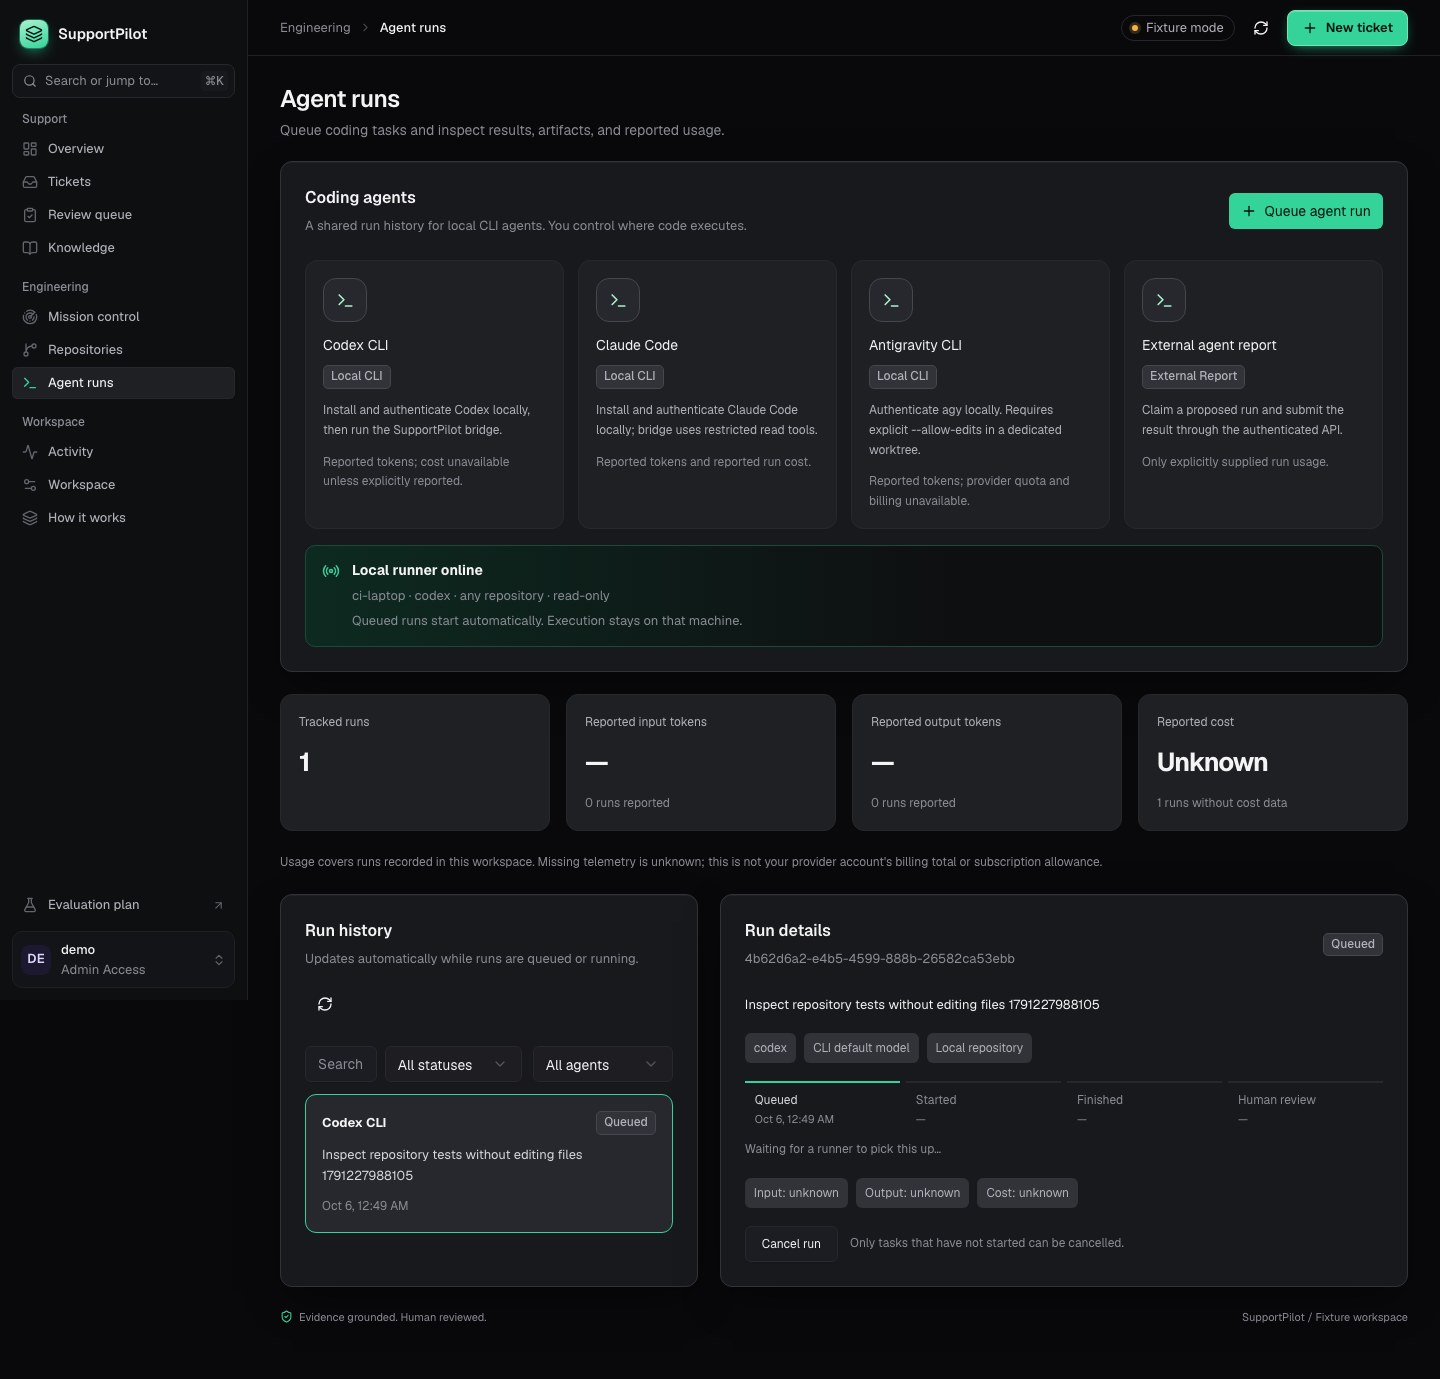
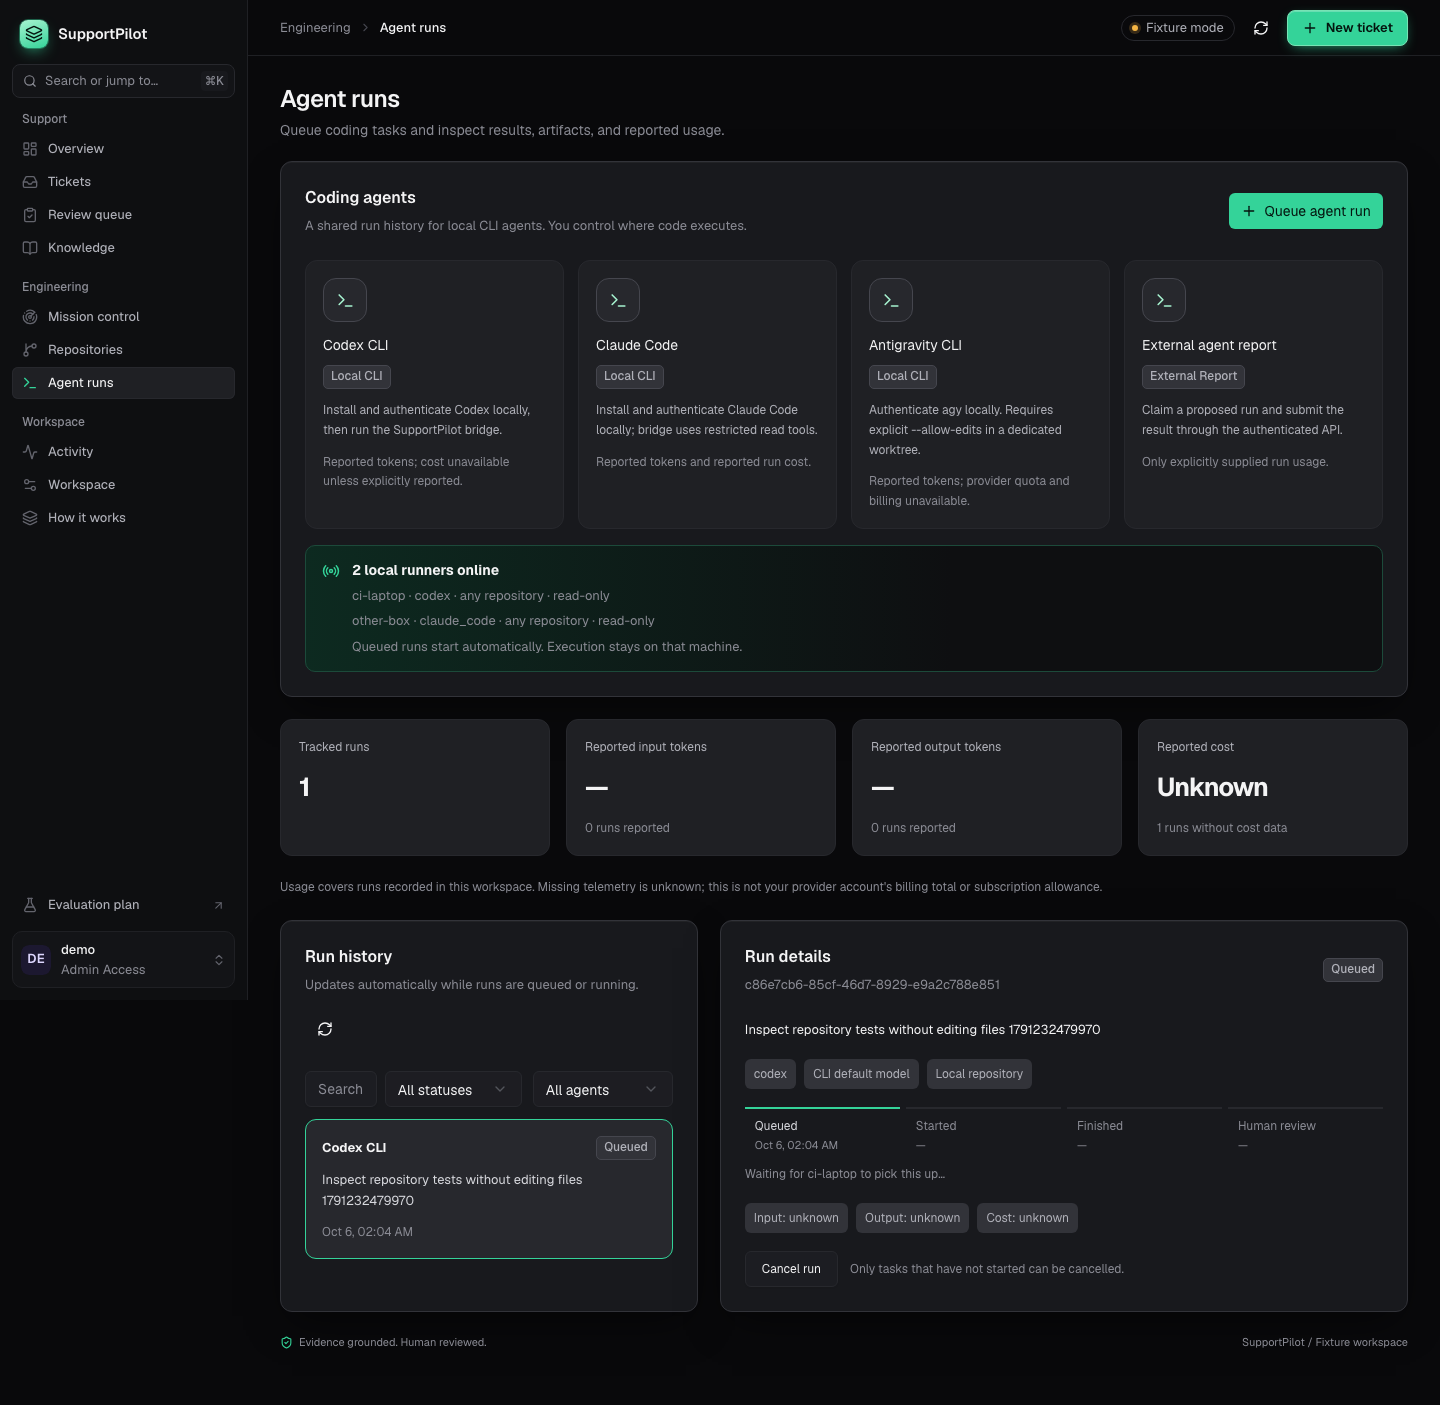
Explain why a queued run is not starting and give a per-repository runner setup with a hidden token prompt

diff --git a/frontend/src/features/AgentRunsView.tsx b/frontend/src/features/AgentRunsView.tsx
@@ -211,12 +211,32 @@ export function AgentRunsView({
   }
   const needsEdits = (run: AgentRun) =>
     run.allow_edits || run.provider === "antigravity";
-  const command = selected
-    ? `python -m supportpilot.cli_bridge run ${selected.id} --repository /absolute/path/to/repo${needsEdits(selected) ? " --allow-edits" : ""}`
-    : "";
   const watchCommand =
     "python -m supportpilot.cli_bridge watch --repository /absolute/path/to/repo --allow-edits --push";
   const online = runners.filter((runner) => runner.online);
+  // Mirrors the watch loop's skip rules so the UI explains why a run is not starting.
+  const blockers = (run: AgentRun, runner: AgentRunner) => {
+    const reasons = [];
+    const repo = run.repository_full_name?.toLowerCase();
+    if (repo && runner.repository_full_name?.toLowerCase() !== repo)
+      reasons.push(
+        `serves ${runner.repository_full_name || "an unlinked checkout"}, not ${run.repository_full_name}`,
+      );
+    if (!runner.providers.includes(run.provider))
+      reasons.push(`does not have the ${run.provider} CLI installed`);
+    if (needsEdits(run) && !runner.allow_edits)
+      reasons.push("is read-only, but this run needs --allow-edits");
+    return reasons;
+  };
+  const setupCommand = (run: AgentRun) =>
+    [
+      run.repository_full_name
+        ? `git clone https://github.com/${run.repository_full_name}.git && cd ${run.repository_full_name.split("/")[1]}`
+        : "cd /absolute/path/to/your/repo",
+      `export SUPPORTPILOT_API_URL=${window.location.origin}`,
+      'printf "Workspace token: "; read -rs SUPPORTPILOT_WORKSPACE_TOKEN; echo; export SUPPORTPILOT_WORKSPACE_TOKEN',
+      `python -m supportpilot.cli_bridge watch --repository "$PWD"${needsEdits(run) ? " --allow-edits" : ""}`,
+    ].join("\n");
   const query = search.trim().toLowerCase();
   const visible = runs.filter(
     (run) =>
@@ -522,50 +542,64 @@ export function AgentRunsView({
                     {elapsed(selected.started_at, selected.completed_at)}
                   </p>
                 )}
-                {selected.status === "queued" && !!online.length && (
-                  <p className="muted small">
-                    Waiting for a runner to pick this up…
-                  </p>
-                )}
-                {selected.status === "queued" && !online.length && (
-                  <div className="engineering-callout">
-                    <strong>Start this run locally</strong>
-                    <p>
-                      Set SUPPORTPILOT_API_URL and SUPPORTPILOT_WORKSPACE_TOKEN
-                      in your shell. Keep your token out of commands and
-                      screenshots.
-                    </p>
-                    {selected.provider !== "custom" && (
-                      <div className="engineering-command">
-                        <code>{command}</code>
-                        <Button
-                          variant="ghost"
-                          aria-label="Copy runner command"
-                          onClick={() => copy(command, "run")}
-                        >
-                          {copied === "run" ? (
-                            <Check size={15} />
-                          ) : (
-                            <Copy size={15} />
-                          )}
-                        </Button>
+                {selected.status === "queued" &&
+                  selected.provider !== "custom" &&
+                  (() => {
+                    const able = online.filter(
+                      (runner) => !blockers(selected, runner).length,
+                    );
+                    if (able.length)
+                      return (
+                        <p className="muted small">
+                          Waiting for {able[0].runner_id} to pick this up…
+                        </p>
+                      );
+                    return (
+                      <div className="engineering-callout">
+                        <strong>
+                          {online.length
+                            ? "No online runner can take this run"
+                            : "No runner is online for this workspace"}
+                        </strong>
+                        {online.map((runner) => (
+                          <p key={runner.runner_id}>
+                            {runner.runner_id}{" "}
+                            {blockers(selected, runner).join("; ")}.
+                          </p>
+                        ))}
+                        <p>
+                          Start a runner in a checkout of{" "}
+                          {selected.repository_full_name || "your repository"}{" "}
+                          with this workspace's token. The token prompt is
+                          hidden, so it stays out of your history and screen.
+                        </p>
+                        <div className="engineering-command">
+                          <code className="multiline">
+                            {setupCommand(selected)}
+                          </code>
+                          <Button
+                            variant="ghost"
+                            aria-label="Copy runner setup"
+                            onClick={() => copy(setupCommand(selected), "run")}
+                          >
+                            {copied === "run" ? (
+                              <Check size={15} />
+                            ) : (
+                              <Copy size={15} />
+                            )}
+                          </Button>
+                        </div>
                       </div>
-                    )}
-                    {selected.provider === "antigravity" && (
-                      <p className="muted small">
-                        Antigravity requires a dedicated clean worktree and the
-                        explicit --allow-edits option.
-                      </p>
-                    )}
-                    {selected.provider === "custom" && (
-                      <p className="muted small">
-                        For custom tools, claim this run and submit a result
-                        through the authenticated API. See docs/AGENT_BRIDGE.md
-                        for the external report workflow.
-                      </p>
-                    )}
-                  </div>
-                )}
+                    );
+                  })()}
+                {selected.status === "queued" &&
+                  selected.provider === "custom" && (
+                    <p className="muted small">
+                      For custom tools, claim this run and submit a result
+                      through the authenticated API. See docs/AGENT_BRIDGE.md
+                      for the external report workflow.
+                    </p>
+                  )}
                 {!!selected.log?.length && (
                   <>
                     <h3 className="engineering-subtitle">

diff --git a/frontend/e2e/engineering.spec.ts b/frontend/e2e/engineering.spec.ts
@@ -35,20 +35,35 @@ test("engineering workspace displays configuration, queues local work, and prese
   await page.getByRole("button", { name: "Queue task", exact: true }).click();
   await expect(page.getByRole("dialog")).not.toBeVisible();
   await expect(
-    page.getByText("Start this run locally", { exact: true }),
+    page.getByText("No runner is online for this workspace"),
   ).toBeVisible();
   await expect(page.getByText("No runner online")).toBeVisible();
   await expect(
     page
       .locator(".engineering-command")
-      .filter({ hasText: "cli_bridge watch" }),
-  ).toContainText("--allow-edits --push");
+      .filter({ hasText: "--push" }),
+  ).toContainText("cli_bridge watch --repository");
   await expect(
-    page.locator(".engineering-command").filter({ hasText: "cli_bridge run" }),
-  ).toBeVisible();
+    page.locator(".engineering-command").filter({ hasText: "read -rs" }),
+  ).toContainText("cli_bridge watch");
   for (const command of await page.locator(".engineering-command").all())
     await expect(command).not.toContainText(TOKEN);
   await expect(page.getByText("Cost: unknown", { exact: true })).toBeVisible();
+  // An online runner that cannot take the run is named with the reason.
+  await page.request.post("/api/agents/runners/heartbeat", {
+    headers: { Authorization: `Bearer ${TOKEN}` },
+    data: {
+      runner_id: "other-box",
+      providers: ["claude_code"],
+      allow_edits: false,
+    },
+  });
+  await expect(
+    page.getByText("No online runner can take this run"),
+  ).toBeVisible();
+  await expect(
+    page.getByText(/other-box does not have the codex CLI installed/),
+  ).toBeVisible();
   // A runner heartbeat flips the panel through polling, without a manual refresh.
   await page.request.post("/api/agents/runners/heartbeat", {
     headers: { Authorization: `Bearer ${TOKEN}` },
@@ -56,7 +71,7 @@ test("engineering workspace displays configuration, queues local work, and prese
   });
   await expect(page.getByText("Local runner online")).toBeVisible();
   await expect(
-    page.getByText("Waiting for a runner to pick this up…"),
+    page.getByText("Waiting for ci-laptop to pick this up…"),
   ).toBeVisible();
   await page.screenshot({
     path: "../docs/screenshots/agent-runs.png",

diff --git a/frontend/e2e/workspace.spec.ts b/frontend/e2e/workspace.spec.ts
@@ -609,9 +609,9 @@ test("admins invite teammates and see team metrics", async ({ page }) => {
   await page.goto("/#token");
   await page.getByLabel("Workspace token").fill(TOKEN);
   await page.getByRole("button", { name: "Connect workspace" }).click();
-  await expect(
-    page.getByRole("region", { name: "Key numbers" }),
-  ).toContainText("Approval rate");
+  await expect(page.getByRole("region", { name: "Key numbers" })).toContainText(
+    "Approval rate",
+  );
   await page.getByRole("button", { name: "Workspace", exact: true }).click();
   await page.getByLabel("GitHub username").fill("@octo-teammate");
   await page.getByLabel("Invite role").selectOption("admin");

diff --git a/frontend/src/features/engineering.css b/frontend/src/features/engineering.css
@@ -619,3 +619,7 @@
     padding: 12px !important;
   }
 }
+.engineering-command code.multiline {
+  white-space: pre-wrap;
+  overflow-wrap: anywhere;
+}
